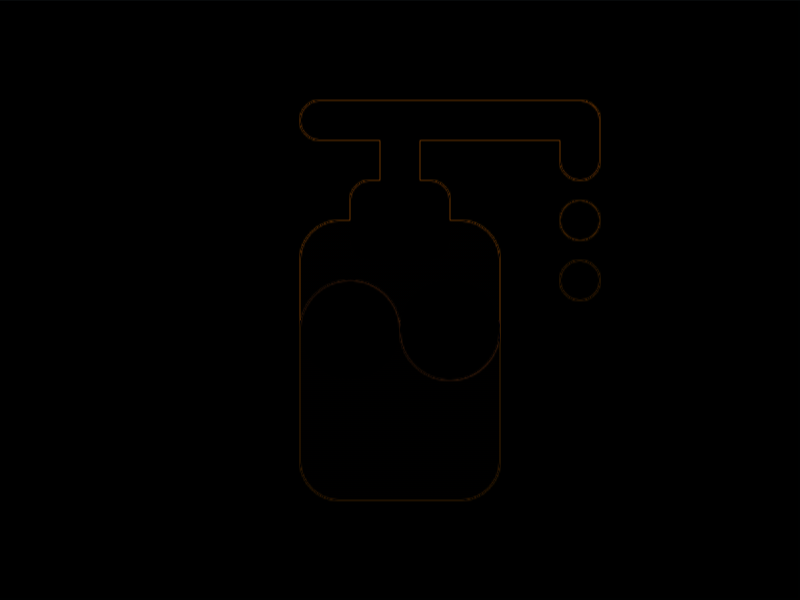
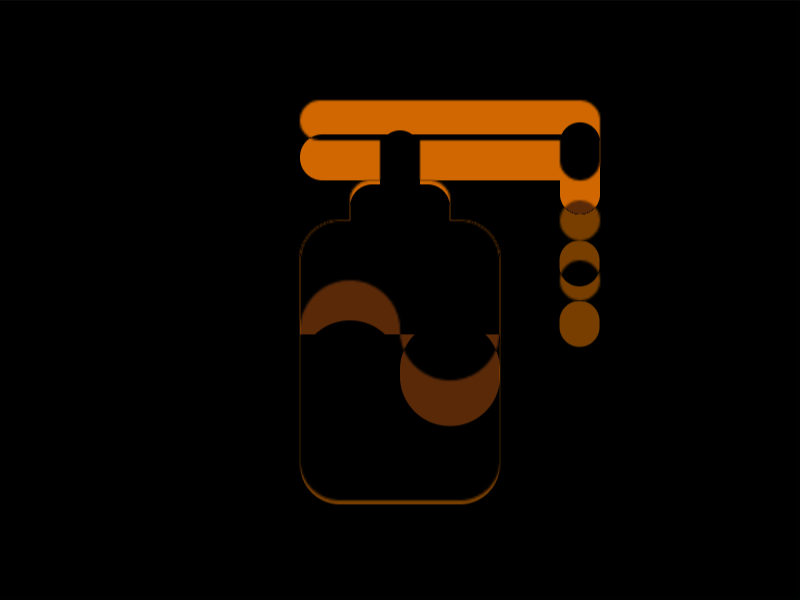
Score: 597.51, Characters: 343 (99.90% match) - CSSHub

Changed region(s): [[0.375, 0.15, 0.75, 0.6], [0.375, 0.45, 0.625, 0.72], [0.375, 0.81, 0.625, 0.84]]

diff --git a/Battles/Battle #10/#50. Use Hand Sanitizer/README.md b/Battles/Battle #10/#50. Use Hand Sanitizer/README.md
@@ -22,51 +22,40 @@ Challenge: <https://cssbattle.dev/play/50>
 ## Code
 
 ```html
-<p><p><p><p><p><style>&{background:#1a4341;*{margin:110 150;border-radius:5vw;height:140;background:linear-gradient(#f3ac3c 50px,#998235 0);*{position:fixed;border-radius:10px;background:#f3ac3c;height:40;width:50;top:-20;left:25;+*{top:-60;left:0;height:20;width:150;+*{height:50;width:20;left:40;+*{height:40;left:130;+*{height:20;top:-10;color:#998235;box-shadow:inset 1in 0,0 30px,-16ex 58q 0 5vh#998235,-69q 58q 0 5vh#f3ac3c
+<p><p><p><p><style>*{margin:110 150 50;border-radius:2.5ch;border-block:solid 3.1lh#f3ac3c}&{border-bottom:solid+90Q#998235;>*{background:#1a4341;font:50%/83%a;margin:-75 25 0;p{margin:-50 15;+p{margin:0-75 0 105;+p{margin:-40-75 0-25;font:99%/43%a;+p{margin:60%15 0;color:998235;box-shadow:95Q 0,95Q 32Q,-25px 55px 0 5vh,25px 58Q 0 5vh#f3ac3c
 ```
 
 ## Prettified code
 
 ```html
-<p><p><p><p><p>
+<p><p><p><p>
 <style>
+* {
+  margin: 110 150 50;
+  border-radius: 2.5ch;
+  border-block: solid 3.1lh #f3ac3c;
+}
 & {
-  background: #1a4341;
-  * {
-    margin: 110 150;
-    border-radius: 5vw;
-    height: 140;
-    background: linear-gradient(#f3ac3c 50px, #998235 0);
-    * {
-      position: fixed;
-      border-radius: 10px;
-      background: #f3ac3c;
-      height: 40;
-      width: 50;
-      top: -20;
-      left: 25;
-      + * {
-        top: -60;
-        left: 0;
-        height: 20;
-        width: 150;
-        + * {
-          height: 50;
-          width: 20;
-          left: 40;
-          + * {
-            height: 40;
-            left: 130;
-            + * {
-              height: 20;
-              top: -10;
-              color: #998235;
-              box-shadow:
-                inset 1in 0,
-                0 30px,
-                -16ex 58Q 0 5vh #998235,
-                -69Q 58Q 0 5vh #f3ac3c;
-            }
+  border-bottom: solid +90Q #998235;
+  > * {
+    background: #1a4341;
+    font: 50% / 83% a;
+    margin: -75 25 0;
+    p {
+      margin: -50 15;
+      + p {
+        margin: 0 -75 0 105;
+        + p {
+          margin: -40 -75 0 -25;
+          font: 99% / 43% a;
+          + p {
+            margin: 60% 15 0;
+            color: 998235;
+            box-shadow:
+              95Q 0,
+              95Q 32Q,
+              -25px 55px 0 5vh,
+              25px 58Q 0 5vh #f3ac3c;
           }
         }
       }

diff --git a/README.md b/README.md
@@ -111,7 +111,7 @@ Note - I have not yet complete all the challenges.
 
 <ul>
 <li><a href="./Battles/Battle%20%2310/%2348.%20Wash%20Your%20Hands/">#48. Wash Your Hands</a> (136 Characters)</li>
-<li><a href="./Battles/Battle%20%2310/%2350.%20Use%20Hand%20Sanitizer/">#50. Use Hand Sanitizer</a> (429 Characters)</li>
+<li><a href="./Battles/Battle%20%2310/%2350.%20Use%20Hand%20Sanitizer/">#50. Use Hand Sanitizer</a> (343 Characters)</li>
 </ul>
 </details>
 </li>
